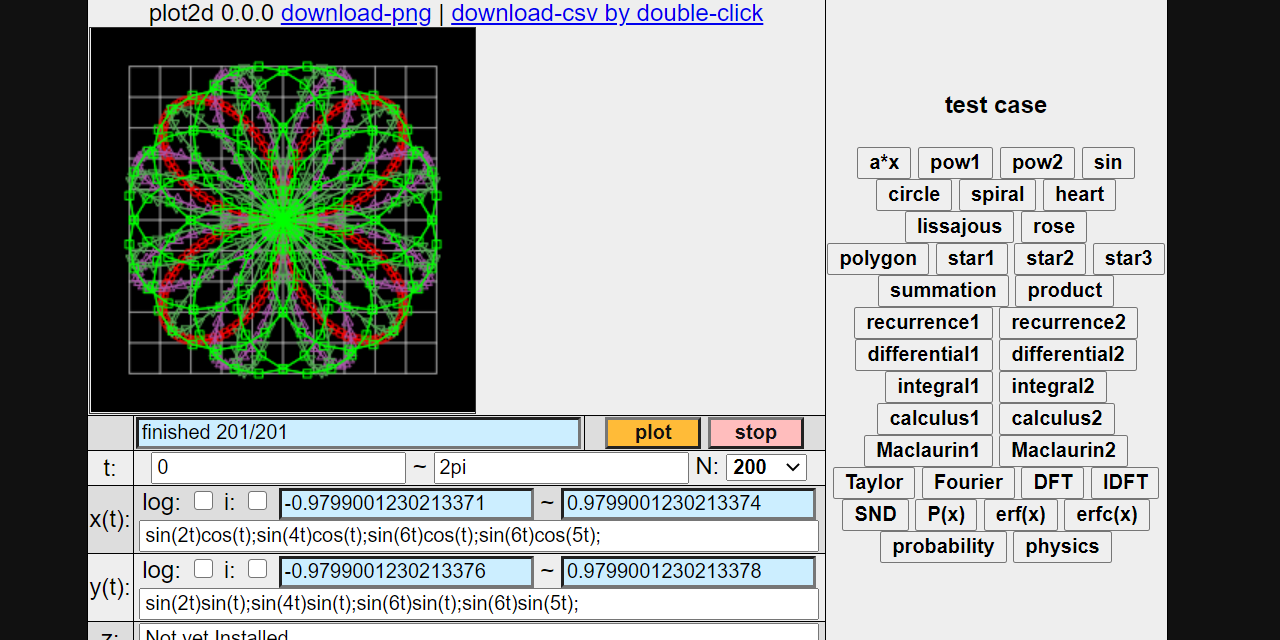
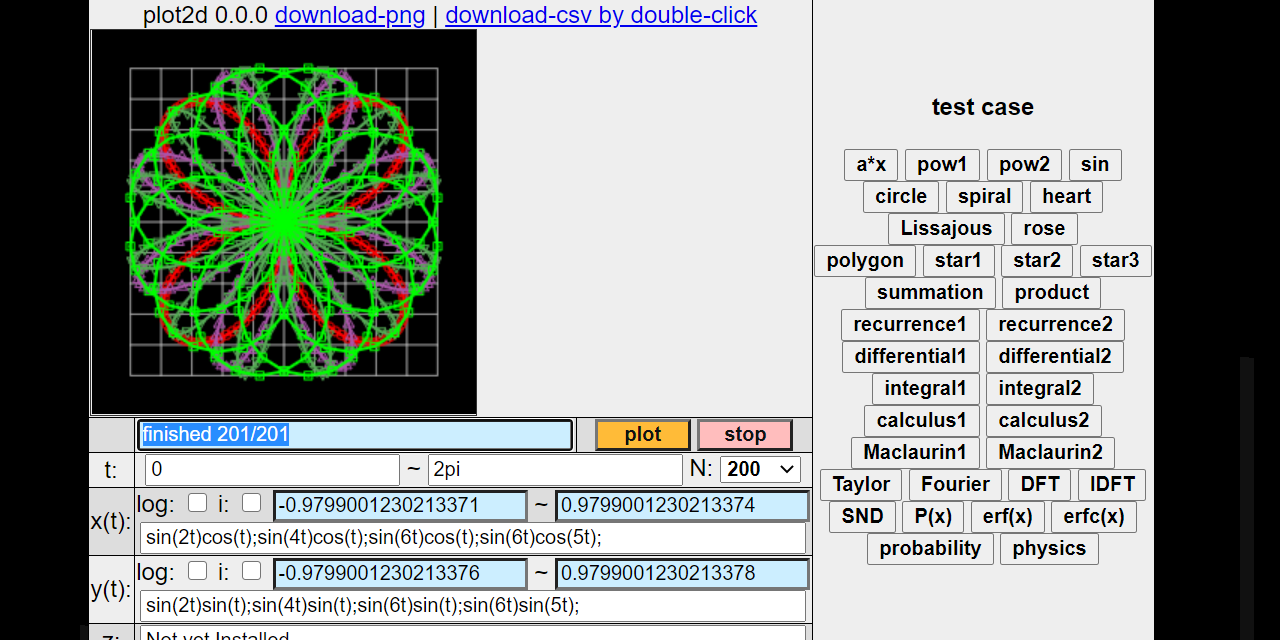
Update README.md

diff --git a/README.md b/README.md
@@ -14,4 +14,4 @@ en: The downloadable contents by simulators in GitHub Pages including results ar
 ja: GitHub Pagesのシミュレータによる結果を含むダウンロード素材は自己責任の下に完全フリー
 
 # Graphing Calculator
-![](/02_calc_graphing/img/02_calc_graphing.png)
+[![](/02_calc_graphing/img/02_calc_graphing.png)]("02_calc_graphing/index.html?checkError=true")
